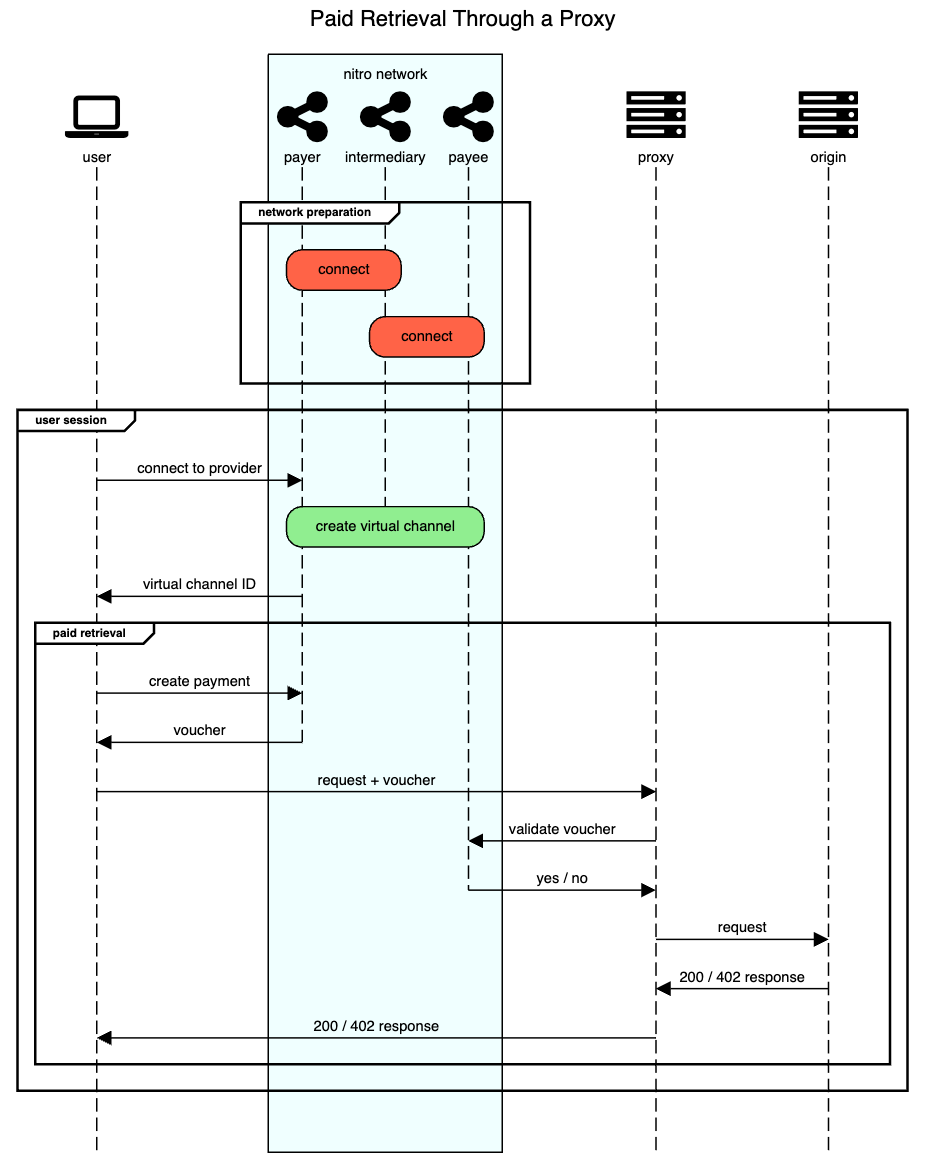
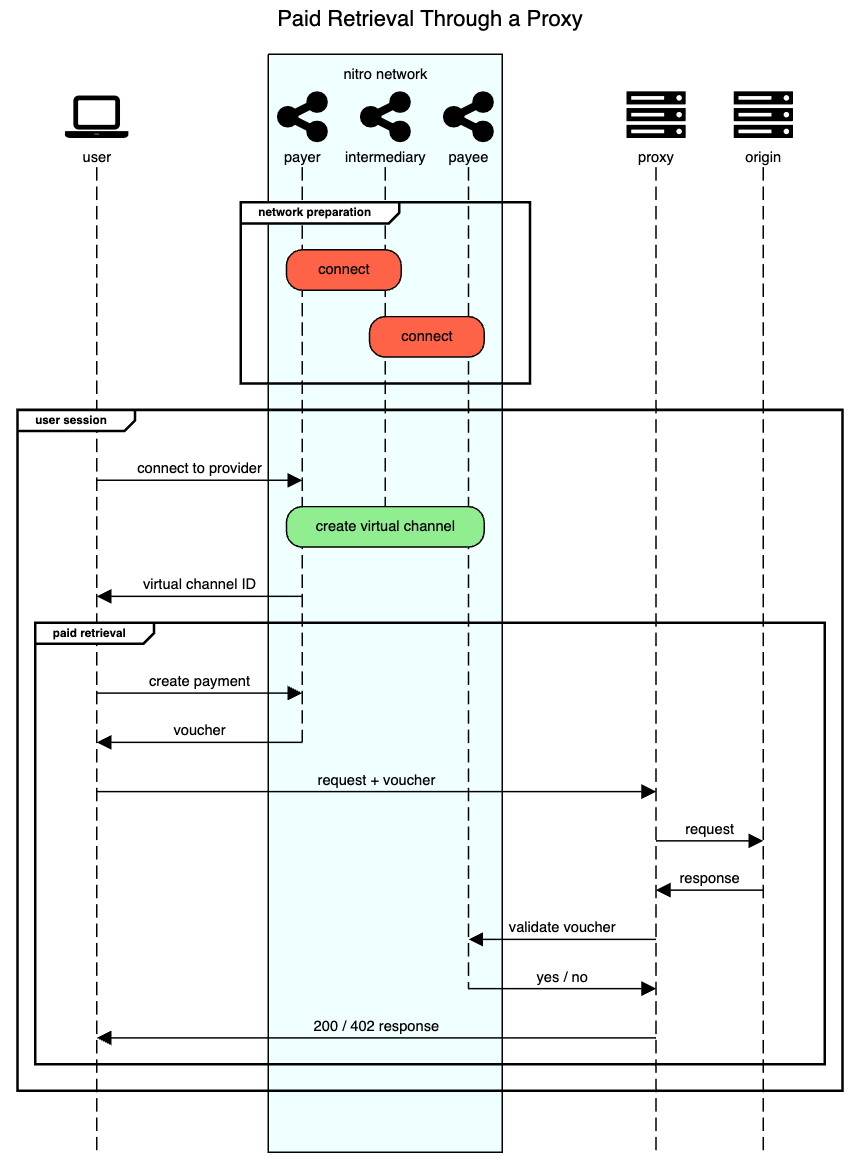
correct diagram

diff --git a/packages/payment-proxy-client/readme.md b/packages/payment-proxy-client/readme.md
@@ -36,11 +36,11 @@ user->payer: create payment
 user<-payer: voucher
 destroysilent payer
 user->proxy: request + voucher
+proxy->origin: request
+proxy<-origin: response
 proxy->payee: validate voucher
 payee->proxy: yes / no
 destroysilent payee
-proxy->origin: request
-proxy<-origin: 200 / 402 response
 user<-proxy: 200 / 402 response
 end
 end
